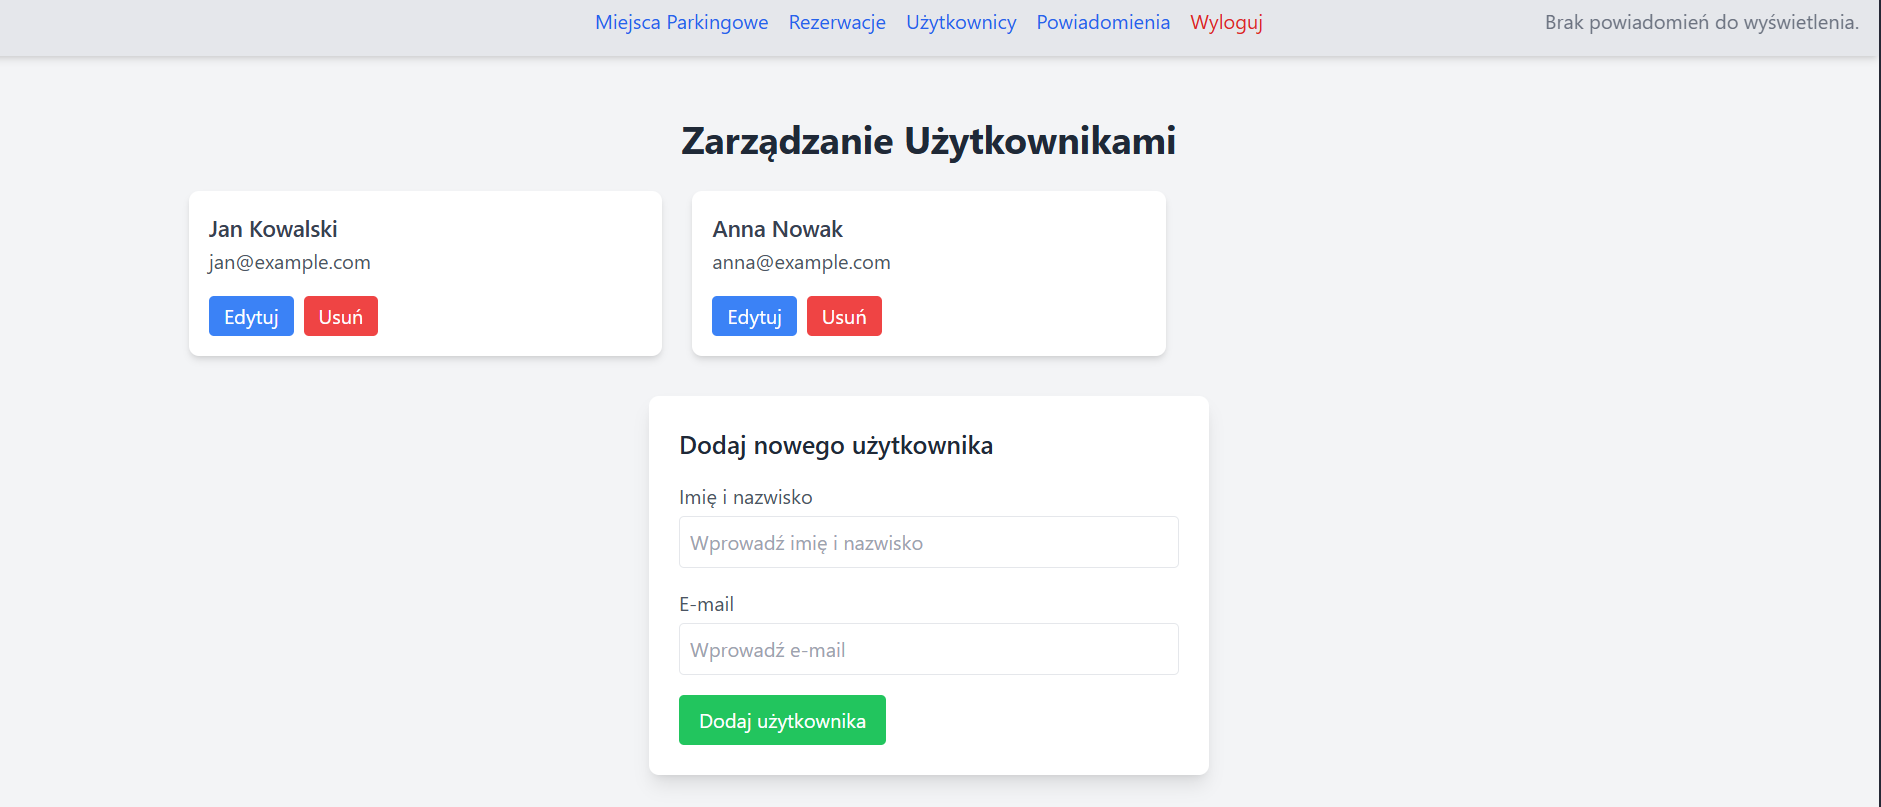
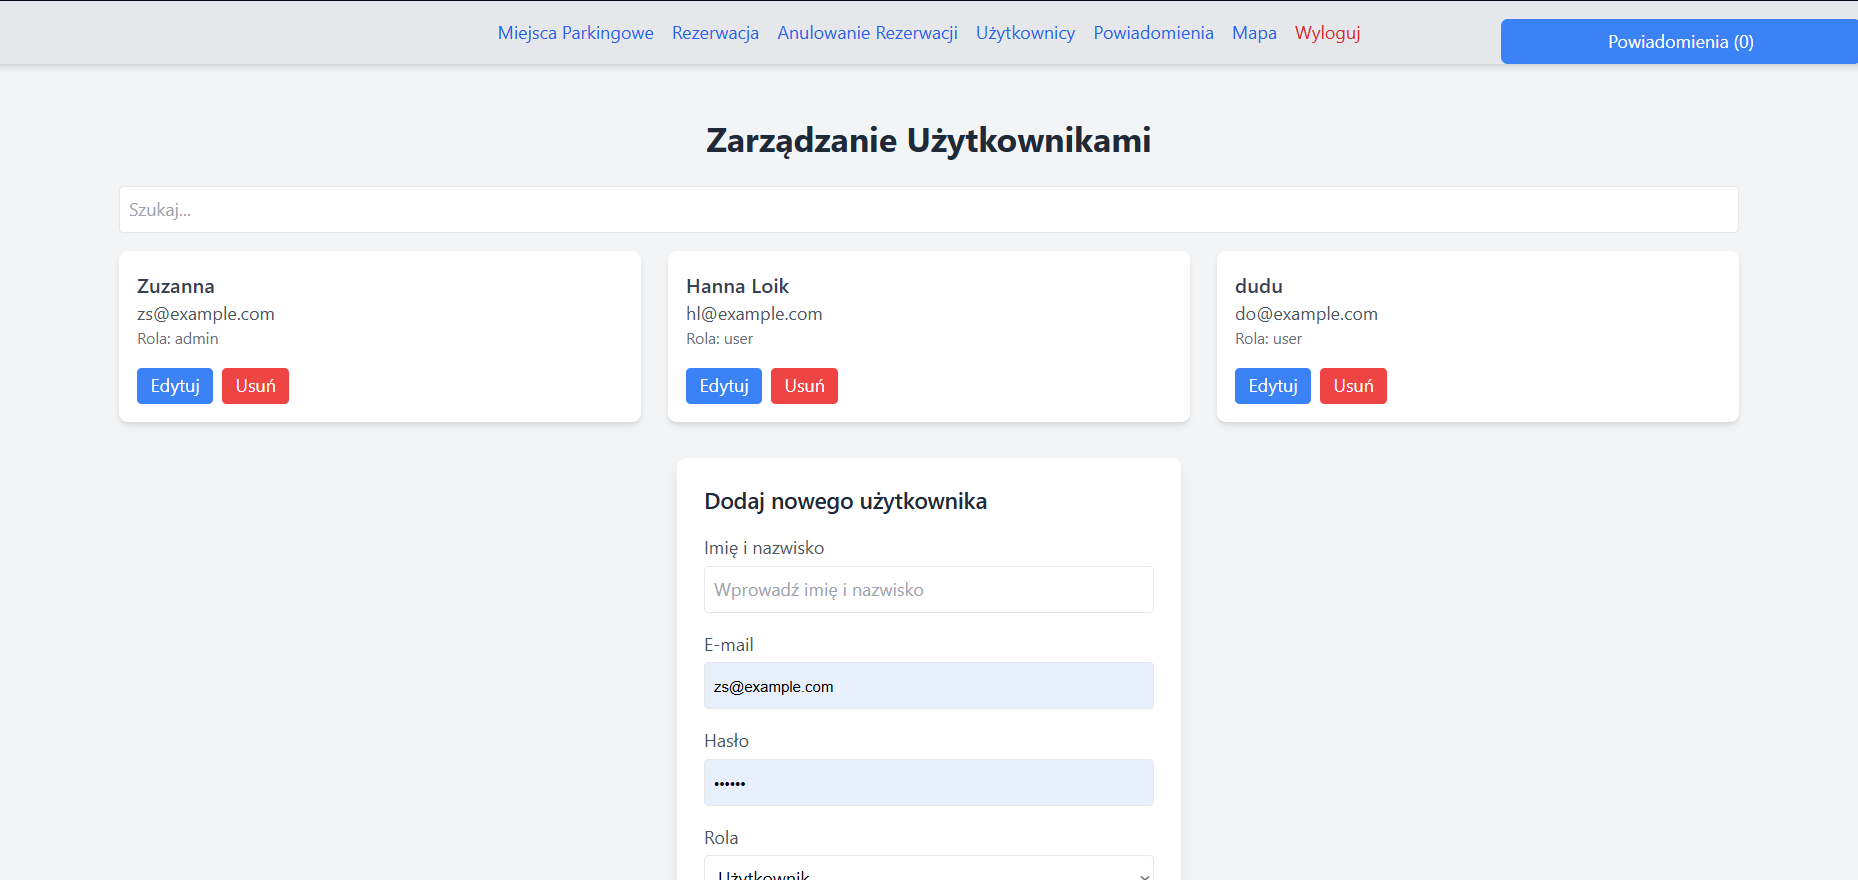
poprawka widoku powiadomien nad komponentami

diff --git a/client/src/App.js b/client/src/App.js
@@ -84,32 +84,30 @@ function App() {
       case 'reservation':
         return <ReservationForm user={user} />;
       case 'users':
-        return user?.role === 'admin' ? (
-          <UserManagement />
-        ) : (
-          <p className="text-center text-red-500">Brak uprawnień do tej strony.</p>
-        );
-      case 'notificationsboard':
-        return (
-          <NotificationsBoard
-            notifications={notifications}
-            addNotification={addNotification}
-            removeNotification={removeNotification}
-          />
-        );
+        return user?.role === 'admin' ? <UserManagement />: <p className="text-center text-red-500">Brak uprawnień do tej strony.</p>;
+        case 'notificationsboard':
+          return <NotificationsBoard notifications={notifications} addNotification={addNotification} removeNotification={removeNotification} />;        
       case 'cancelReservation':
         return <CancelReservation />;
       case 'map':
-        return <Map />;
+        return (
+          <>
+            <Notifications notifications={notifications} removeNotification={removeNotification} />
+            <Map />
+          </>
+        );
       default:
         return <div>Wybierz widok</div>;
     }
   };
-
+  
   return (
     <div className="min-h-screen bg-gray-100 flex flex-col">
       <Header setView={setView} user={user} handleLogout={handleLogout} />
+      <div className="absolute top-10 right-10 z-[1000]">
+
       <Notifications notifications={notifications} removeNotification={removeNotification} />
+      </div>
       <main className="flex-grow container mx-auto p-6">{renderView()}</main>
       <footer className="bg-gray-800 text-white text-center py-4">
         <p>&copy; {new Date().getFullYear()} Parking App. Wszystkie prawa zastrzeżone.</p>

diff --git a/client/src/components/NotificationsBoard.js b/client/src/components/NotificationsBoard.js
@@ -1,5 +1,5 @@
 import React, { useRef } from 'react';
-function NotificationsBoard({ notifications, addNotification, removeNotification }) {
+function NotificationsBoard({ notifications = [], addNotification, removeNotification }) {
   const notificationInputRef = useRef();
   const placeInputRef = useRef();
 
